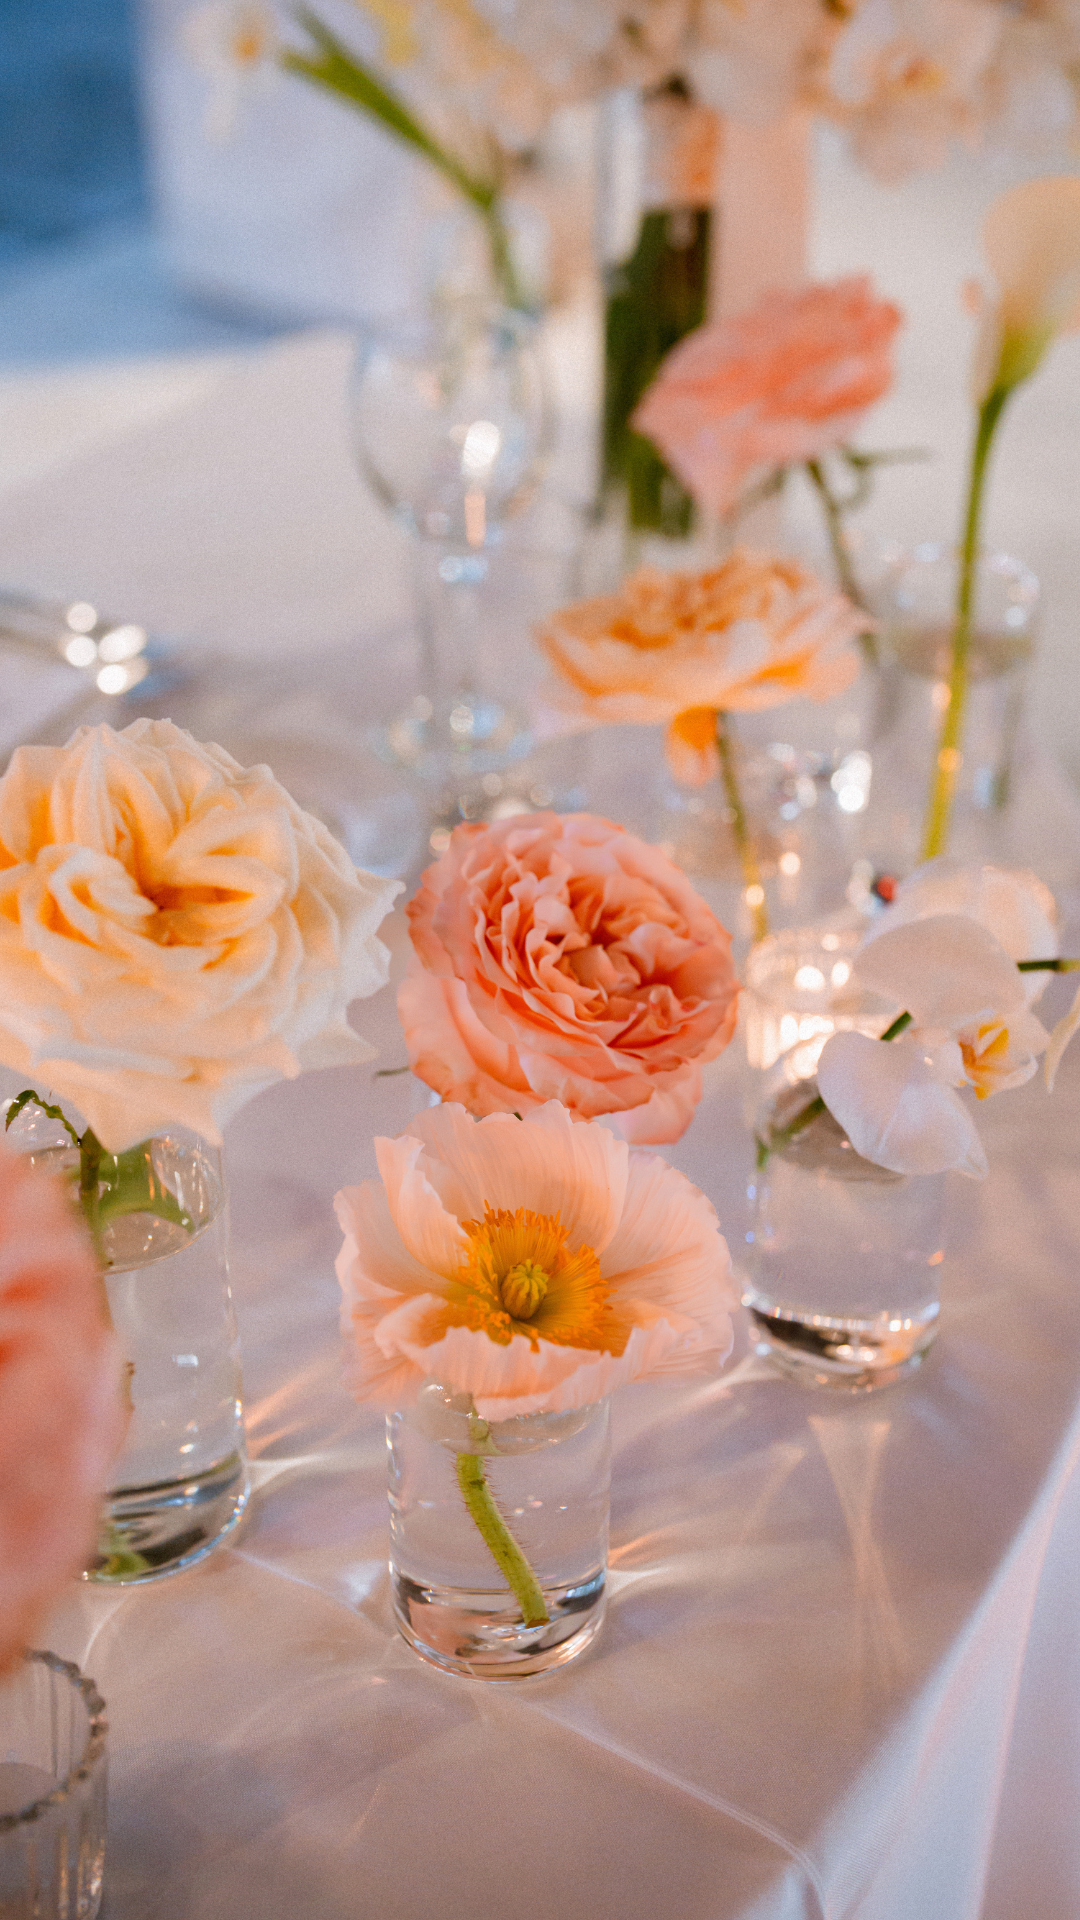
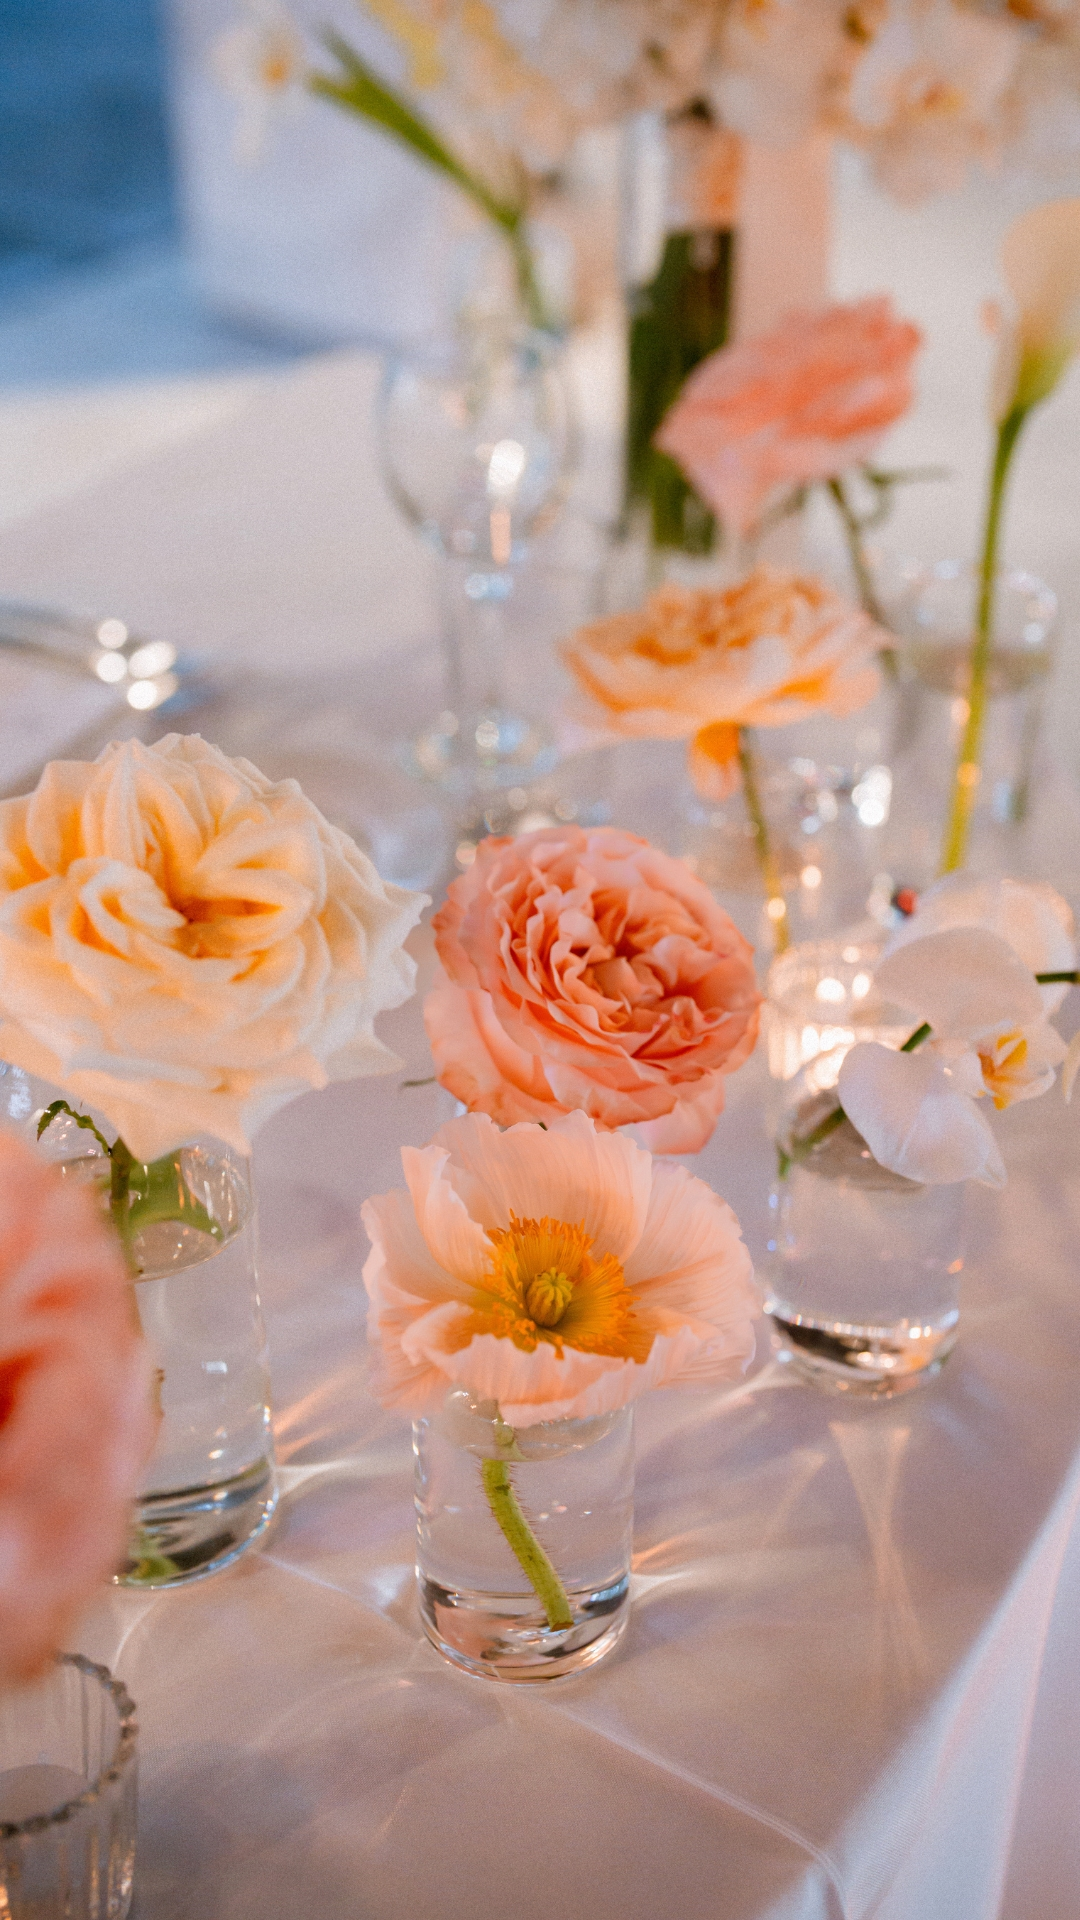
Changes mobile landing header photo and typo on testimonial

diff --git a/src/components/testimonialList.jsx b/src/components/testimonialList.jsx
@@ -21,7 +21,7 @@ export default function TestimonialList() {
         },
         {
             id: 2,
-            content: "Morgan immediately understood my vision and brought it to life",
+            content: "Morgan immediately understood my vision and brought it to life.",
             author: "Nicole L.",
             imgUrl: Testimonial2,
         },
